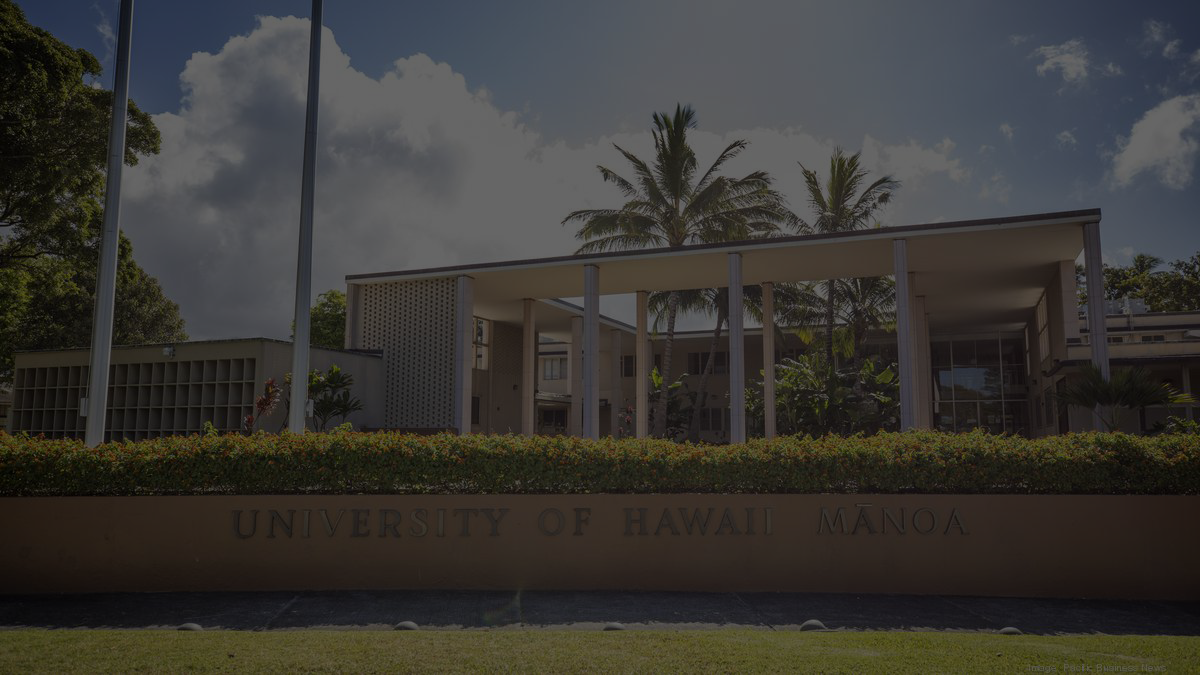
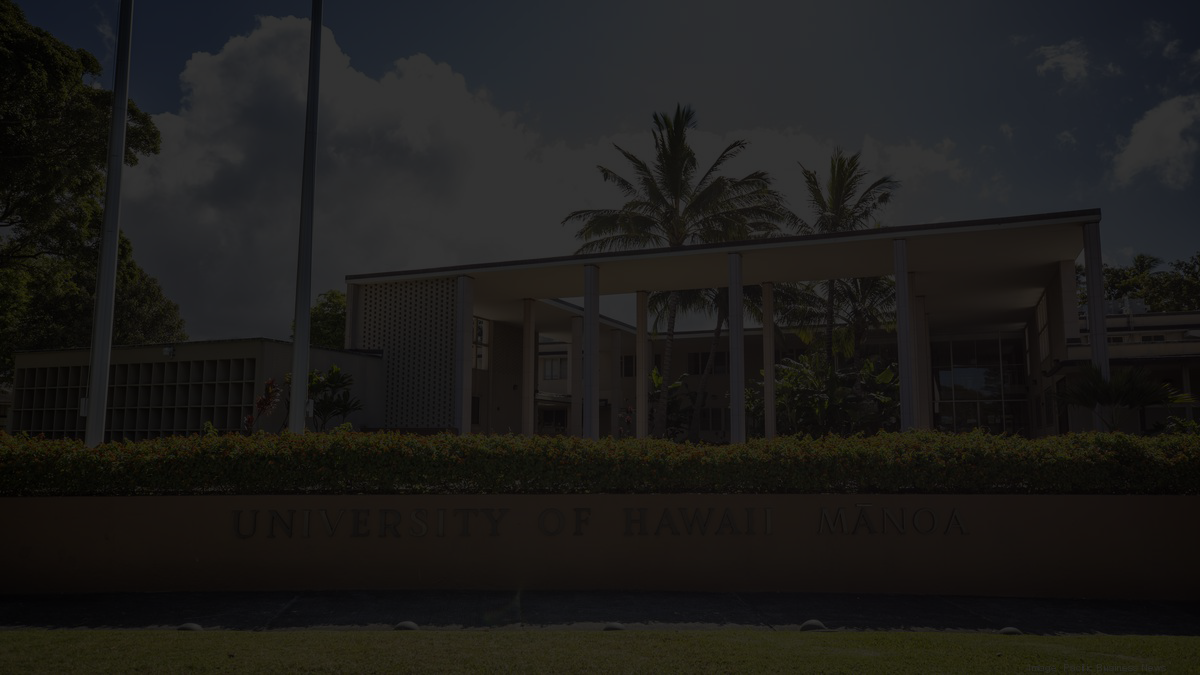
Landing page with no buttons yet

diff --git a/app/client/style.css b/app/client/style.css
@@ -3,19 +3,29 @@
 
 /* Set up some CSS variables to theme the application. */
 :root {
-  --matr-navbar-bg: #ECECEC;
-  --matr-navbar-bg-rgb: 236, 236, 236;
+  --matr-navbar-bg: green;
+  --matr-navbar-bg-rgb: 0, 100, 0;
+  --matr-navbar-text-color: white;
+  --matr-navbar-highlight-text: lightblue;
 }
 
 /* Change bootstrap variable values.
  See https://getbootstrap.com/docs/5.2/customize/css-variables/
  */
 body {
-  --bs-light-rgb: var(--matr-navbar-bg-rgb);
   background: fixed center url("/images/landingPageBackground.png");
+  --bs-dark: var(--matr-navbar-bg);
+  --bs-dark-rgb: var(--matr-navbar-bg-rgb);
   background-size: cover;
 }
 
+body .navbar {
+  --bs-navbar-active-color: var(--matr-navbar-highlight-text);
+  --bs-navbar-brand-color: var(--matr-navbar-text-color);
+  --bs-navbar-brand-hover-color: var(--matr-navbar-highlight-text);
+  --bs-navbar-color: var(--matr-navbar-text-color);
+  --bs-navbar-hover-color: var(--matr-navbar-highlight-text);
+}
 /* Set the alert background on the signin and signup pages. */
 #signin-page .alert-light, #signup-page .alert-light {
   --bs-alert-bg: var(--matr-navbar-bg);
@@ -27,4 +37,19 @@ body {
   color: var(--bs-dark);
   padding-top: 10px;
   padding-bottom: 20px;
+}
+
+footer, footer a {
+  color: var(--matr-navbar-text-color);
+}
+
+#landing-page h1 {
+  color: var(--matr-navbar-text-color);
+  font-size: 60px;
+}
+
+/* Applying theme variables for p within #landing-page */
+#landing-page p {
+  color: var(--matr-navbar-text-color);
+  font-size: 30px;
 }

diff --git a/app/imports/ui/pages/Landing.jsx b/app/imports/ui/pages/Landing.jsx
@@ -3,9 +3,9 @@ import { Col, Container, Row } from 'react-bootstrap';
 
 /* A simple static component to render some text for the landing page. */
 const Landing = () => (
-  <Container id="landing-page" fluid className="py-3">
-    <Row className="align-middle text-center">
-      <Col xs={8} className="d-flex flex-column justify-content-center">
+  <Container id="landing-page" fluid className="py-3 d-flex h-100">
+    <Row className="justify-content-center align-items-center w-100">
+      <Col xs={12} md={8} className="d-flex flex-column justify-content-center align-items-center text-center">
         <h1>Welcome!</h1>
         <p>Please select an action below.</p>
       </Col>

diff --git a/app/imports/ui/components/Footer.jsx b/app/imports/ui/components/Footer.jsx
@@ -3,7 +3,7 @@ import { Col, Container } from 'react-bootstrap';
 
 /** The Footer appears at the bottom of every page. Rendered by the App Layout component. */
 const Footer = () => (
-  <footer className="mt-auto py-3 bg-light">
+  <footer className="mt-auto py-3 bg-dark">
     <Container>
       <Col className="text-center">
         Department of Information and Computer Sciences
@@ -14,10 +14,6 @@ const Footer = () => (
         Honolulu, HI 96822
         {' '}
         <br />
-        <a href="http://ics-software-engineering.github.io/meteor-application-template-react">
-          Template Home
-          Page
-        </a>
       </Col>
     </Container>
   </footer>

diff --git a/app/imports/ui/components/NavBar.jsx b/app/imports/ui/components/NavBar.jsx
@@ -13,10 +13,10 @@ const NavBar = () => {
   }), []);
 
   return (
-    <Navbar bg="light" expand="lg">
+    <Navbar bg="dark" expand="lg">
       <Container>
         <Navbar.Brand as={NavLink} to="/">
-          <h2>meteor-application-template-react</h2>
+          <h2>UHM Lost & Found</h2>
         </Navbar.Brand>
         <Navbar.Toggle aria-controls="basic-navbar-nav" />
         <Navbar.Collapse id="basic-navbar-nav">
